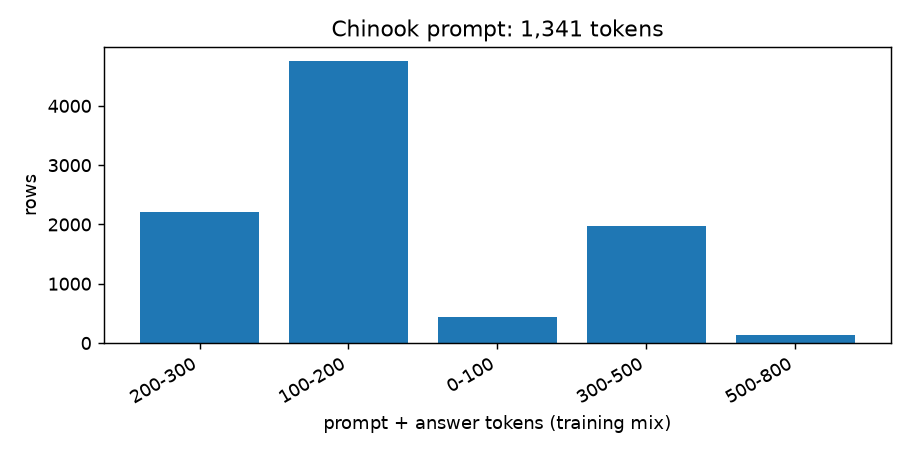
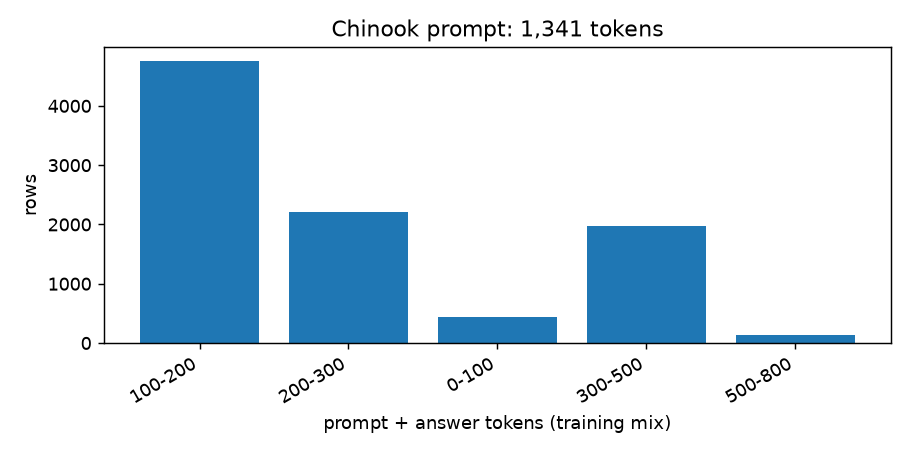
Validation rows carry execution context; dataset card category fix

Changed region(s): [[0.1538, 0.1231, 0.4615, 0.4923], [0.3077, 0.8615, 0.3385, 0.8923], [0.1231, 0.8615, 0.1538, 0.8923]]

diff --git a/src/text2sql/etl/load.py b/src/text2sql/etl/load.py
@@ -65,6 +65,17 @@ def train_row(rec: Record) -> dict:
     }
 
 
+def val_row(rec: Record) -> dict:
+    """Validation rows also carry what the notebook needs to execute predictions."""
+    row = train_row(rec)
+    row["meta"] |= {
+        "context_sqlite": rec.context_sqlite,
+        "gold_sql": rec.sql,
+        "order_matters": rec.order_matters,
+    }
+    return row
+
+
 def eval_row(rec: Record) -> dict:
     return {
         "id": rec.id,
@@ -117,7 +128,7 @@ def render_card(report: dict, repo_id: str) -> str:
     return f"""---
 license: apache-2.0
 language: [en]
-task_categories: [text2text-generation]
+task_categories: [text-generation]
 tags: [text-to-sql, sqlite, etl, execution-validated]
 configs:
 - config_name: train

diff --git a/src/text2sql/etl/pipeline.py b/src/text2sql/etl/pipeline.py
@@ -24,6 +24,7 @@ from .load import (
     recheck_rows,
     render_card,
     train_row,
+    val_row,
     write_frozen,
     write_records,
 )
@@ -135,7 +136,7 @@ def write_outputs(cfg: Config, built: dict, *, partial: bool, refreeze: bool) ->
     proc = cfg.paths.processed
     write_records(proc / "records.parquet", built["records"])
     atomic_write(proc / "train.jsonl", dumps_jsonl([train_row(r) for r in built["mix"]]))
-    atomic_write(proc / "val.jsonl", dumps_jsonl([train_row(r) for r in built["val"]]))
+    atomic_write(proc / "val.jsonl", dumps_jsonl([val_row(r) for r in built["val"]]))
     status = "skipped (partial run)"
     if not partial:
         text = dumps_jsonl([eval_row(r) for r in built["eval"]])

diff --git a/reports/data_quality.md b/reports/data_quality.md
@@ -2,7 +2,7 @@
 
 _Generated by `python -m text2sql.etl.pipeline`; do not edit by hand._
 
-- run `0ae2cb88` at 2026-11-13T03:46:50+00:00, git `c6abd86`, config `3d9e9a417a04`
+- run `e37b8914` at 2026-11-13T03:58:25+00:00, git `8f452d0`, config `3d9e9a417a04`
 - python 3.12.13, sqlglot 30.31.0, pyarrow 26.0.1
 - source revisions: gretel `740ab236e645`, sqlcc `9d80a6a118b8`, chinook `v1.4.5`
 
@@ -174,13 +174,13 @@ Chinook prompt size for comparison: 1,341 tokens.
 
 | Stage | in | out | seconds |
 |---|---|---|---|
-| ingest (map + validate + canonicalize) | 184428 | 155520 | 22.9 |
-| filters | 155520 | 155179 | 0.8 |
-| dedup | 155179 | 155176 | 0.9 |
+| ingest (map + validate + canonicalize) | 0 | 155520 | 3.1 |
+| filters | 155520 | 155179 | 0.7 |
+| dedup | 155179 | 155176 | 1.0 |
 | split + leakage guard | 155176 | 155134 | 0.5 |
 | sample + augment | 9500 | 9500 | 1.5 |
 
-Incremental: new=184428, skipped=0
+Incremental: new=0, skipped=184428
 
 ## 7. Figures
 
